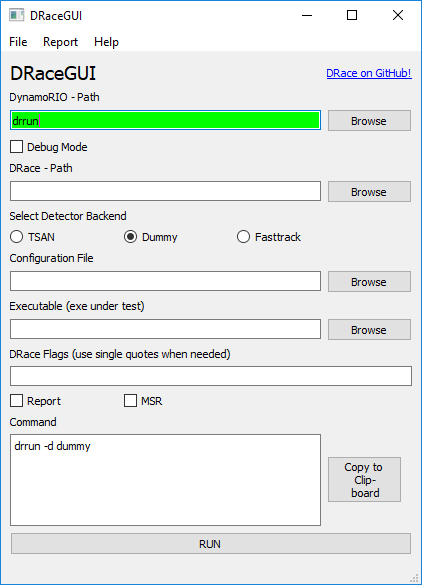
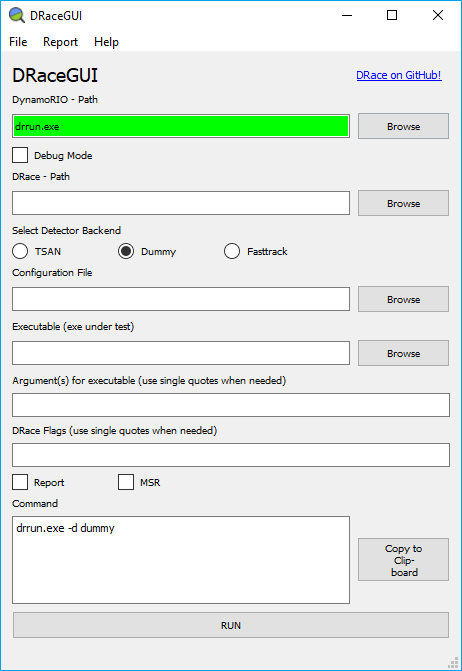
feat: add input in GUI to specify args for exe under test

diff --git a/tools/DRaceGUI/src/Data_Handler.cpp b/tools/DRaceGUI/src/Data_Handler.cpp
@@ -26,7 +26,8 @@ void Data_Handler::get_data(Report_Handler* rh, Command_Handler* ch) {
   flags = data[Command_Handler::FLAGS].toStdString();
   ext_ctrl = data[Command_Handler::EXT_CTRL].toStdString();
   configuration = data[Command_Handler::CONFIGURATION].toStdString();
-  execuatable = data[Command_Handler::EXECUTABLE].toStdString();
+  executable = data[Command_Handler::EXECUTABLE].toStdString();
+  executable_args = data[Command_Handler::EXECUTABLE_ARGS].toStdString();
 
   msr = ch->get_msr_path().toStdString();
 }
@@ -50,7 +51,9 @@ void Data_Handler::set_data(Report_Handler* rh, Command_Handler* ch) {
   ch->command[Command_Handler::FLAGS] = QString(flags.c_str());
   ch->command[Command_Handler::EXT_CTRL] = QString(ext_ctrl.c_str());
   ch->command[Command_Handler::CONFIGURATION] = QString(configuration.c_str());
-  ch->command[Command_Handler::EXECUTABLE] = QString(execuatable.c_str());
+  ch->command[Command_Handler::EXECUTABLE] = QString(executable.c_str());
+  ch->command[Command_Handler::EXECUTABLE_ARGS] =
+      QString(executable_args.c_str());
 
   ch->set_msr(QString(msr.c_str()));
 }

diff --git a/tools/DRaceGUI/qt/draceGUI.cpp b/tools/DRaceGUI/qt/draceGUI.cpp
@@ -200,6 +200,10 @@ void DRaceGUI::on_exe_input_textChanged(const QString &arg1) {
       ch->make_entry(arg1, Command_Handler::EXECUTABLE, "--"));
 }
 
+void DRaceGUI::on_exe_args_input_textChanged(const QString &arg1) {
+  ui->command_output->setText(ch->make_exe_args_entry(arg1));
+}
+
 void DRaceGUI::on_flag_input_textChanged(const QString &arg1) {
   ui->command_output->setText(ch->make_flag_entry(arg1));
 }
@@ -299,6 +303,8 @@ void DRaceGUI::set_boxes_after_load() {
   QString exe = ch->command[Command_Handler::EXECUTABLE];
   exe.remove(0, 3);  // exe cmd is -- EXECUTEABLE -> remove "-- "
   ui->exe_input->setText(remove_quotes(exe));
+
+  ui->exe_args_input->setText(ch->command[Command_Handler::EXECUTABLE_ARGS]);
 
   ui->flag_input->setText(ch->command[Command_Handler::FLAGS]);
 

diff --git a/tools/DRaceGUI/include/Command_Handler.h b/tools/DRaceGUI/include/Command_Handler.h
@@ -29,7 +29,8 @@ class Command_Handler {
   static constexpr uint EXT_CTRL = 6;
   static constexpr uint CONFIGURATION = 7;
   static constexpr uint EXECUTABLE = 8;
-  static constexpr uint REPORT_CMD = 9;
+  static constexpr uint EXECUTABLE_ARGS = 9;
+  static constexpr uint REPORT_CMD = 10;
 
  private:
   QString entire_command;
@@ -54,6 +55,9 @@ class Command_Handler {
 
   /// sets the flag entry
   QString make_flag_entry(const QString& arg1);
+
+  /// sets the argument(s) (if any) of the executable under test
+  QString make_exe_args_entry(const QString& arg1);
 
   /// makes a command entry into the command array and updates the
   /// entire_command

diff --git a/tools/DRaceGUI/include/Data_Handler.h b/tools/DRaceGUI/include/Data_Handler.h
@@ -19,8 +19,8 @@
 
 class Data_Handler {
   std::string report_name, report_converter, report_srcdirs, dynamorio,
-      dr_debug, drace, detector, flags, ext_ctrl, configuration, execuatable,
-      msr;
+      dr_debug, drace, detector, flags, ext_ctrl, configuration, executable,
+      executable_args, msr;
 
   bool report_is_python, create_report;
 
@@ -39,7 +39,8 @@ class Data_Handler {
     ar& flags;
     ar& ext_ctrl;
     ar& configuration;
-    ar& execuatable;
+    ar& executable;
+    ar& executable_args;
     ar& msr;
     ar& report_is_python;
     ar& create_report;

diff --git a/tools/DRaceGUI/src/Command_Handler.cpp b/tools/DRaceGUI/src/Command_Handler.cpp
@@ -80,6 +80,14 @@ QString Command_Handler::make_flag_entry(const QString &arg1) {
   return updateCommand(to_append, FLAGS);
 }
 
+QString Command_Handler::make_exe_args_entry(const QString &arg1) {
+  if (arg1 != "") {
+    return updateCommand(arg1, EXECUTABLE_ARGS);
+  } else {
+    return updateCommand("", EXECUTABLE_ARGS);
+  }
+}
+
 bool Command_Handler::validate_and_set_msr(bool on, QObject *parent) {
   QString cmd = "";
   make_extctrl(false);

diff --git a/tools/DRaceGUI/qt/draceGUI.h b/tools/DRaceGUI/qt/draceGUI.h
@@ -57,6 +57,7 @@ class DRaceGUI : public QMainWindow {
   void on_dr_path_input_textChanged(const QString &arg1);
   void on_drace_path_input_textChanged(const QString &arg1);
   void on_exe_input_textChanged(const QString &arg1);
+  void on_exe_args_input_textChanged(const QString &arg1);
   void on_flag_input_textChanged(const QString &arg1);
   void on_config_file_input_textChanged(const QString &arg1);
 

diff --git a/HowTo/README.md b/HowTo/README.md
@@ -42,6 +42,7 @@ The following fields are mandatory:
 - Select Detector: Select one of the available detectors (more information about detectors are [here](##Detectors))
 - Configuration File: Path to ```drace.ini```
 - Executable: Path to the application under test
+    - Argument(s) for Executable: In case the application under test requires arguments
 
 The following fields are optional:
 
